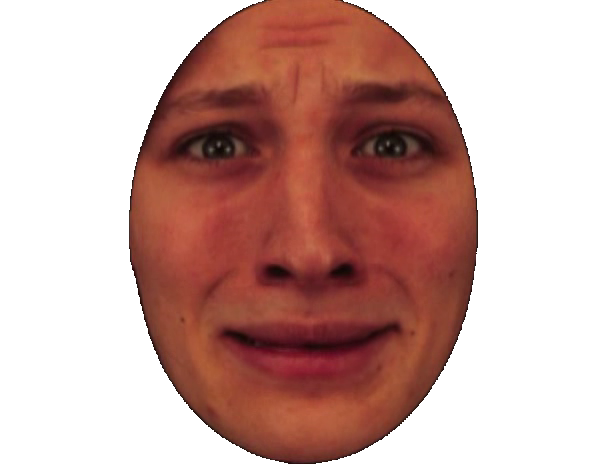
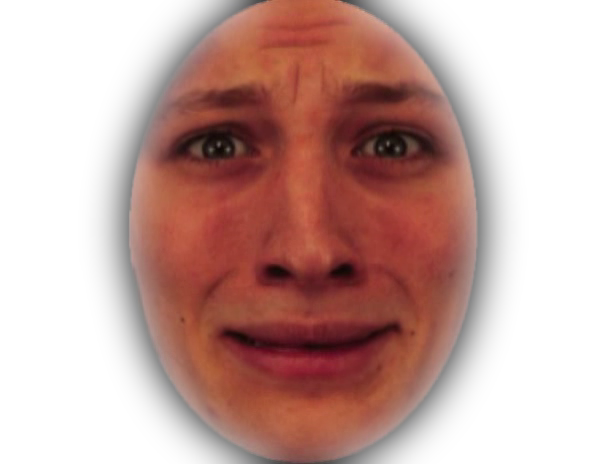
bRMS: feather face edges in PNGs, remove CSS mask fallback
Alpha channel now Gaussian-blurred (radius 20px) at the face boundary,
giving a broad soft fade baked into the image files. Removed the CSS
mask-image radial gradient which wasn't effective due to objectFit
sizing mismatch.

Changed region(s): [[0.1562, 0.0, 0.8438, 1.0]]

diff --git a/app/bRMS/practice/page.tsx b/app/bRMS/practice/page.tsx
@@ -289,8 +289,6 @@ export default function BRMSPracticePage() {
             objectFit: 'contain',
             transform: trial.orientation === 'inverted' ? 'rotate(180deg)' : undefined,
             filter: 'grayscale(100%)',
-            maskImage: 'radial-gradient(ellipse 40% 40% at center, black 30%, transparent 80%)',
-            WebkitMaskImage: 'radial-gradient(ellipse 40% 40% at center, black 30%, transparent 80%)',
           }} />
 
         {/* Tap zones + side indicators (during alternation) */}

diff --git a/app/bRMS/experiment/page.tsx b/app/bRMS/experiment/page.tsx
@@ -350,8 +350,6 @@ export default function BRMSExperimentPage() {
             objectFit: 'contain',
             transform: trial.orientation === 'inverted' ? 'rotate(180deg)' : undefined,
             filter: 'grayscale(100%)',
-            maskImage: 'radial-gradient(ellipse 40% 40% at center, black 30%, transparent 80%)',
-            WebkitMaskImage: 'radial-gradient(ellipse 40% 40% at center, black 30%, transparent 80%)',
           }} />
 
         {/* Tap zones (during alternation) */}
